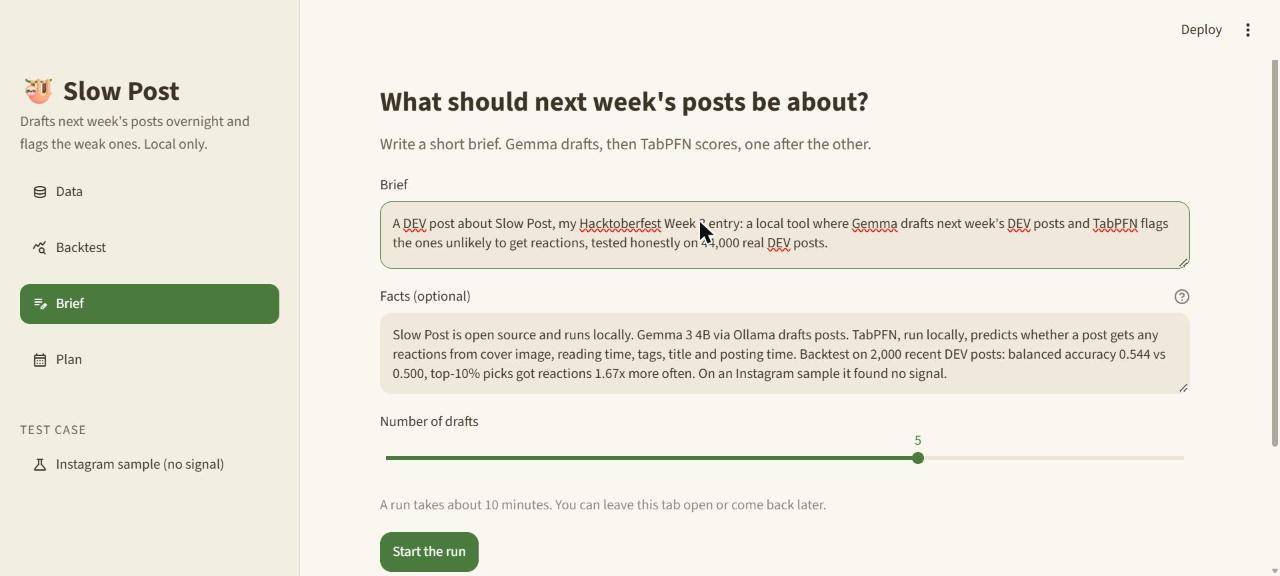
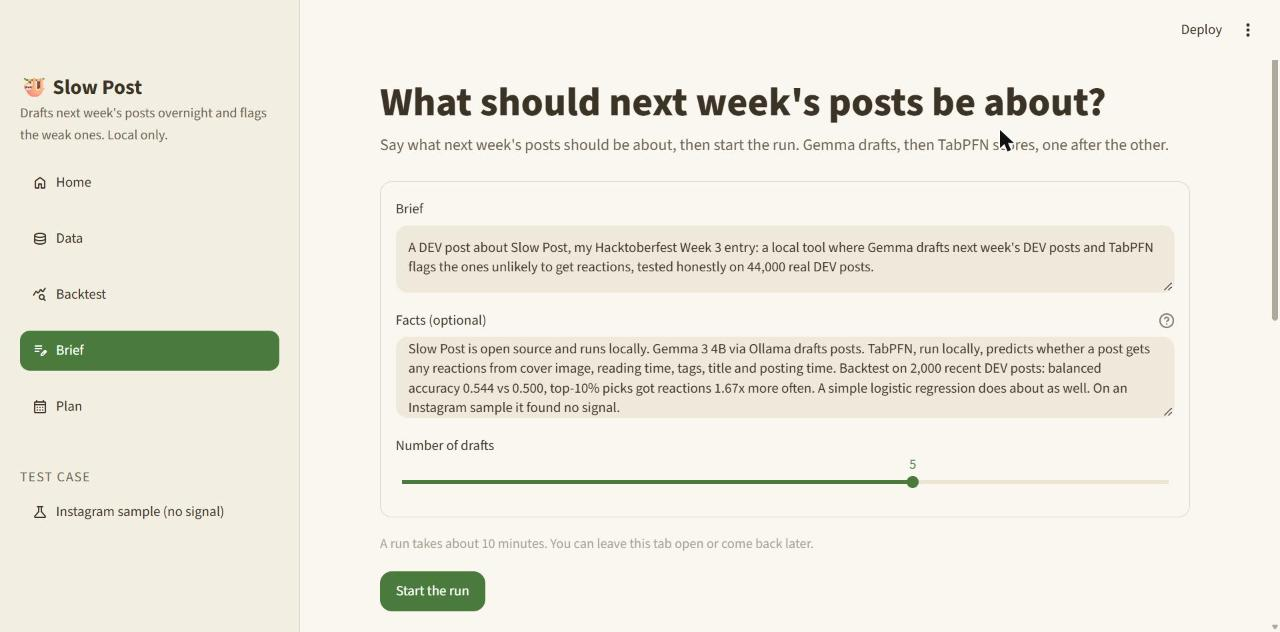
Backed-by-the-data needs the history to agree with the model; saved runs are rechecked; revision caveat; first Part B screenshots

diff --git a/app.py b/app.py
@@ -503,7 +503,9 @@ def revision_compare(items: list[dict], summary: dict | None) -> None:
                  f"{summary['changed_band']} changed band; strong drafts "
                  f"{summary['strong_before']} → {summary['strong_after']}.")
     st.caption("Gemma writes the revision; the score comes from TabPFN. A revision is kept only if "
-               "TabPFN scores it higher than the original.")
+               "TabPFN scores it higher than the original. Picking the higher of two scores favours "
+               "whatever the model likes, so a gain here is the model's own opinion, not a measured "
+               "result on real posts.")
     for it in done:
         rv = it["revision"]
         before = it["original"]["draft"] if it.get("original") else it["draft"]
@@ -563,9 +565,10 @@ def show_card(run: Path, i: int, item: dict) -> dict:
         with st.expander("Features (computed by code)"):
             st.json(edited["features"])
         with st.expander("What-if: what would change it?"):
-            st.write(item["reason"])
             sup = [w for w in item["what_if"] if w.get("supported")]
             rest = [w for w in item["what_if"] if not w.get("supported")]
+            if not sup:
+                st.write(item["reason"])
             st.markdown("**Backed by the data** (the signal summary shows a clear difference)")
             if sup:
                 for w in sup:
@@ -573,7 +576,8 @@ def show_card(run: Path, i: int, item: dict) -> dict:
             else:
                 st.caption("No what-if feature is backed by the data.")
             st.markdown("**The model's guess**")
-            st.caption("The data shows no clear difference for these, so treat them as guesses.")
+            st.caption("The data shows no clear difference for these, or points the other way, so "
+                       "treat them as guesses.")
             for w in rest:
                 st.markdown(":gray[" + (w.get("sentence")
                                          or f"{w['delta']:+.1%} points: {w['text']} ({w['p']:.0%})") + "]")
@@ -605,7 +609,8 @@ def good_morning(run: Path) -> None:
     """The latest finished run, opened first: when it finished and a pointer to the verdict."""
     done = datetime.fromtimestamp((run / "drafts.json").stat().st_mtime)
     hours = (datetime.now() - done).total_seconds() / 3600
-    ago = f"{hours * 60:.0f} minutes ago" if hours < 1 else (
+    minutes = round(hours * 60)
+    ago = ("just now" if minutes < 1 else f"{minutes} minute{'s' if minutes != 1 else ''} ago") if hours < 1 else (
         f"{hours:.0f} hours ago" if hours < 48 else f"{hours / 24:.0f} days ago")
     greeting = "Good morning. Your run is ready." if hours < 18 else "Your latest run."
     st.markdown(ui.section(greeting), unsafe_allow_html=True)

diff --git a/slowpost/score.py b/slowpost/score.py
@@ -111,6 +111,11 @@ def whatif_sentence(w: dict, p0: float) -> str:
     if obs is None:
         return model
     a, b = obs["new"], obs["old"]
+    if w.get("conflict"):
+        more = "more often" if a > b else "less often"
+        return (f"The data points the other way: posts like this with {w['what']} got reactions "
+                f"{more} ({a:.0%} vs {b:.0%}). The model still scores this variant {higher} "
+                f"({p0:.0%} to {w['p']:.0%}), so treat it as a guess.")
     if not w["supported"]:
         return (f"The data shows no clear difference for this feature ({a:.0%} vs {b:.0%} got "
                 f"reactions). {model}")
@@ -138,13 +143,20 @@ def score_drafts(model: Fitted, drafts: list[DevDraft], facts: dict | None,
     for start, variants in spans:
         p0 = float(probs[start])
         feats = rows[start]
-        what_if = sorted(
-            ({"text": v["text"], "what": v["what"], "feature": v["feature"],
-              "p": float(probs[start + 1 + i]), "delta": float(probs[start + 1 + i]) - p0,
-              "supported": v["feature"] in supported,
-              "observed": observed_rates(summary, v["feature"], feats, v["overrides"])
-              if summary else None} for i, v in enumerate(variants)),
-            key=lambda w: w["delta"], reverse=True)
+        what_if = []
+        for i, v in enumerate(variants):
+            delta = float(probs[start + 1 + i]) - p0
+            obs = observed_rates(summary, v["feature"], feats, v["overrides"]) if summary else None
+            clear = v["feature"] in supported
+            # "Backed by the data" needs the history to point the same way as the model: a
+            # feature with a clear difference overall does not back a change the history
+            # says goes the other way.
+            conflict = bool(clear and obs and (obs["new"] > obs["old"]) != (delta > 0))
+            what_if.append({"text": v["text"], "what": v["what"], "feature": v["feature"],
+                            "p": float(probs[start + 1 + i]), "delta": delta,
+                            "supported": clear and not conflict, "conflict": conflict,
+                            "observed": obs})
+        what_if.sort(key=lambda w: w["delta"], reverse=True)
         for w in what_if:
             w["sentence"] = whatif_sentence(w, p0)
         best = next((w for w in what_if if w["supported"] and w["delta"] >= MIN_EFFECT), None)

diff --git a/slowpost/plan.py b/slowpost/plan.py
@@ -26,7 +26,31 @@ def normalize_labels(data: dict) -> dict:
                 it["revision"][k] = fix(it["revision"][k])
     if data.get("verdict", {}).get("best"):
         data["verdict"]["best"]["label"] = fix(data["verdict"]["best"]["label"])
+    for it in data["drafts"]:
+        recheck_whatifs(it)
     return data
+
+
+def recheck_whatifs(item: dict) -> None:
+    """Re-apply the "backed by the data" rule to a saved draft: a feature with a clear difference
+    only backs a change when the history points the same way as the model. Runs saved before
+    this rule are corrected when they are opened. Idempotent."""
+    from .score import MIN_EFFECT, whatif_sentence
+
+    p0 = item["p_yes"]
+    if not any(w.get("observed") for w in item["what_if"]):
+        return  # saved before observed rates existed: leave as saved
+    for w in item["what_if"]:
+        obs = w.get("observed")
+        if not obs:
+            continue
+        clear = w.get("supported") or w.get("conflict")  # a clear feature, whatever its direction
+        conflict = bool(clear and (obs["new"] > obs["old"]) != (w["delta"] > 0))
+        w["conflict"], w["supported"] = conflict, bool(clear and not conflict)
+        w["sentence"] = whatif_sentence(w, p0)
+    best = next((w for w in item["what_if"] if w.get("supported") and w["delta"] >= MIN_EFFECT), None)
+    item["reason"] = (f"Backed by the data: {best['sentence']}" if best and best.get("sentence")
+                      else "No change backed by the data clearly helps this draft.")
 
 
 def apply_edits(item: dict, edit: dict | None) -> tuple[dict, str | None]:

diff --git a/tests/test_plan.py b/tests/test_plan.py
@@ -186,3 +186,22 @@ def test_schedule_button_is_disabled_until_the_user_ticks_the_box():
     create = next(b for b in at.main.button if b.label == "Create scheduled task")
     assert create.disabled  # nothing can be created without an explicit yes
     assert any("schtasks /Create" in c.value for c in at.main.code)
+
+
+def test_saved_runs_are_rechecked_for_contradicted_changes():
+    from slowpost.plan import recheck_whatifs
+
+    it = {**item(), "p_yes": 0.22, "what_if": [
+        {"text": "main tag 'python'", "what": "the main tag 'python'", "feature": "main_tag",
+         "p": 0.28, "delta": 0.06, "supported": True,
+         "observed": {"new": 0.12, "old": 0.14}, "sentence": "old"},
+        {"text": "no cover", "what": "no cover image", "feature": "has_cover_image",
+         "p": 0.12, "delta": -0.10, "supported": True,
+         "observed": {"new": 0.06, "old": 0.20}, "sentence": "old"}]}
+    recheck_whatifs(it)
+    tag, cover = it["what_if"]
+    assert tag["conflict"] and not tag["supported"] and "points the other way" in tag["sentence"]
+    assert cover["supported"] and not cover["conflict"]
+    assert "No change backed by the data" in it["reason"]  # the cover removal lowers the score
+    recheck_whatifs(it)  # idempotent
+    assert tag["conflict"] and cover["supported"]

diff --git a/tests/test_score.py b/tests/test_score.py
@@ -318,3 +318,17 @@ def test_on_draft_reports_each_finished_slot():
     seen = []
     generate_drafts("brief", 3, chat=chat, on_draft=lambda done, total: seen.append((done, total)))
     assert seen == [(1, 3), (2, 3), (3, 3)]
+
+
+def test_a_change_the_history_contradicts_is_a_guess_not_backed_by_the_data():
+    # Cover: 'no cover' got reactions MORE often in this made-up history, yet the model scores
+    # removing the cover lower. The feature is clear overall, but the direction conflicts.
+    table = pd.DataFrame({"n": [500, 400], "top_share": [0.80, 0.94]}, index=["no", "yes"])
+    summary = {"top_label": "no_reactions", "overall_share": 0.84, "features": {
+        "has cover image": {"table": table, "clear": True}}}
+    a = score_drafts(FakeModel(), [make_draft(cover_idea="a sloth")], FACTS, 0.14, 0.30,
+                     {"has_cover_image"}, summary)[0]
+    cover = next(w for w in a["what_if"] if w["feature"] == "has_cover_image")
+    assert cover["conflict"] is True and cover["supported"] is False
+    assert cover["sentence"].startswith("The data points the other way")
+    assert a["best"] is None  # a contradicted change can never be the reason

diff --git a/docs/analysis-log.md b/docs/analysis-log.md
@@ -118,3 +118,11 @@ conversation; the project notes record the decision but not always the reason.
   after holding the other fixed, but nothing here shows that adding a cover causes reactions.
 - **Fewer than 2,000 test posts, one seed.** Intervals reflect resampling of the test posts, not
   a different training sample.
+- **Revision gains are the model's own opinion.** A revision is kept when TabPFN scores it higher
+  than the original, so the choice is selected by the same model that then reports the gain
+  (a winner's curse). The gain has not been tested on real posts.
+- **Strong is a threshold, not a cliff.** A draft at 20.3% is Strong and one at 19.9% is not; the
+  threshold is 0.1997. Treat drafts near it as the same.
+- **Slot matters as much as wording.** Day and hour are chosen by code from the history's best
+  days and hours, so the first draft gets the best slot. In the real runs the Strong drafts tended
+  to be the ones in the best slots, even for a brief meant to be dull.
